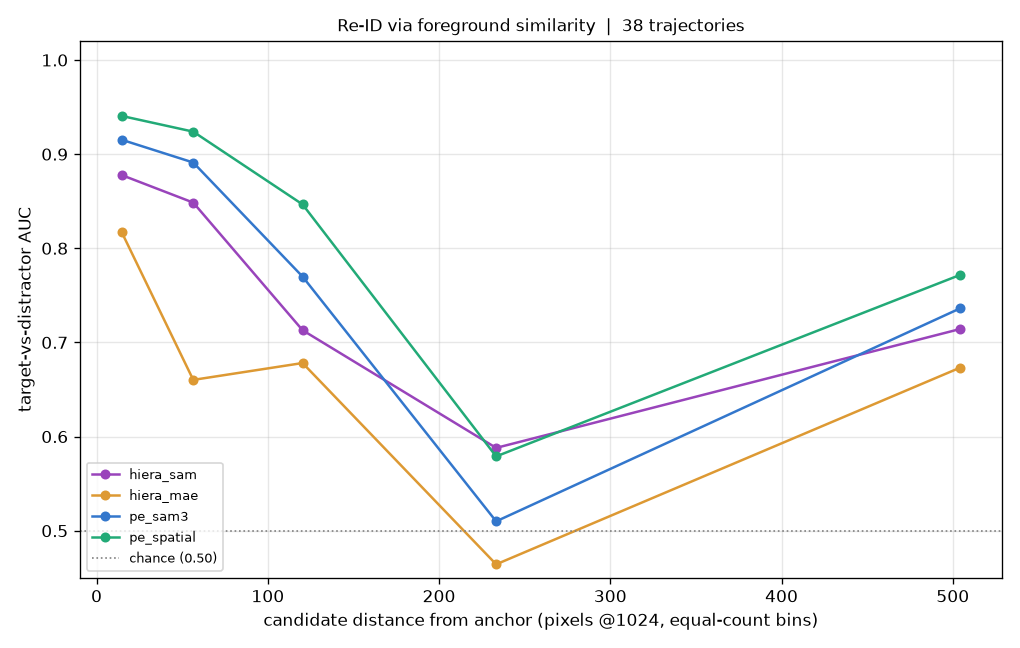
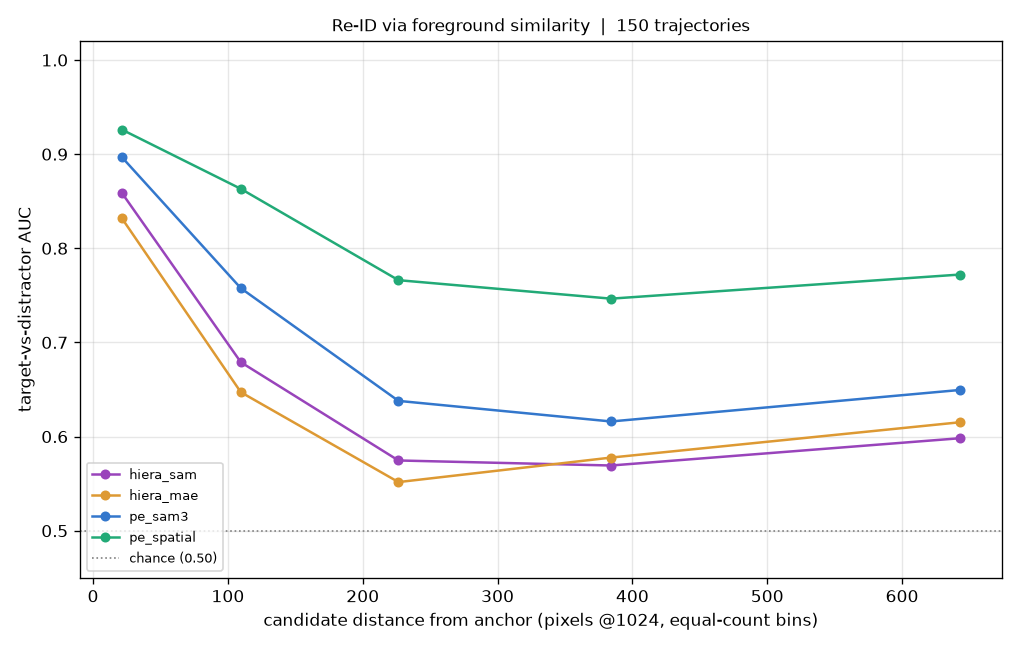
clean experiment

diff --git a/pe_reid_longrange.py b/pe_reid_longrange.py
@@ -105,8 +105,8 @@ def box_prompt_masks(sam, frame, boxes):
 
 @torch.inference_mode()
 def entity_tokens(sam, backbones, frame, boxes, floor, crop_size):
-    """Return each box's (foreground, background) tokens for every backbone, cropped around its own mask
-    but floored at the anchor scale. Returns a list aligned to boxes ({backbone: (fg, bg)}), or None if any mask is empty."""
+    """Return each box's foreground tokens for every backbone, cropped around its own mask but floored
+    at the anchor scale. Returns a list aligned to boxes ({backbone: fg_tokens}), or None if any mask is empty."""
 
     box_masks = box_prompt_masks(sam, frame, boxes)
     if any((box_mask > 0).sum() == 0 for box_mask in box_masks):
@@ -114,7 +114,7 @@ def entity_tokens(sam, backbones, frame, boxes, floor, crop_size):
 
     # Crop every box out of the (repeated) frame in one call, floored at the anchor scale.
     frame_per_box = np.repeat(frame[None], len(box_masks), axis=0)
-    box_crops, box_crop_masks = crop_around_masks(frame_per_box, np.stack(box_masks).astype(np.float32), crop_size, 0.5, floor)
+    box_crops, box_crop_masks = crop_around_masks(frame_per_box, np.stack(box_masks).astype(np.float32), crop_size, 0.2, floor)
 
     tokens_by_box = [{} for _ in boxes]
     for backbone_name, encode in backbones.items():
@@ -122,7 +122,7 @@ def entity_tokens(sam, backbones, frame, boxes, floor, crop_size):
         foreground_masks = _patch_masks(box_crop_masks, patch_tokens.device)
 
         for box_tokens, box_patch_tokens, mask in zip(tokens_by_box, patch_tokens, foreground_masks):
-            box_tokens[backbone_name] = (box_patch_tokens[mask].clone(), box_patch_tokens[~mask].clone())
+            box_tokens[backbone_name] = box_patch_tokens[mask].clone()          # foreground tokens only
         del patch_tokens                                # free this backbone before the next large model runs
         if DEVICE == "cuda":
             torch.cuda.empty_cache()
@@ -130,18 +130,19 @@ def entity_tokens(sam, backbones, frame, boxes, floor, crop_size):
 
 
 @torch.inference_mode()
-def chamfer_similarity(reference_fg, tokens):
-    """Bidirectional (symmetric) chamfer: average of tokens->anchor and anchor->tokens mean best cosine.
-    NaN if either side is empty."""
+def chamfer_scores(reference_fg, tokens):
+    """Return (unidirectional, bidirectional) chamfer between the anchor foreground and the candidate tokens.
+    uni = mean best cosine of each candidate token to any anchor patch; bi = average of that with the reverse
+    direction (anchor->candidate). (nan, nan) if either side is empty."""
 
     if reference_fg.shape[0] == 0 or tokens.shape[0] == 0:
-        return float("nan")
+        return float("nan"), float("nan")
     reference = F.normalize(reference_fg, dim=-1)
     tokens = F.normalize(tokens, dim=-1)
     similarity = tokens @ reference.T                        # (n_tokens, n_anchor_fg)
     tokens_to_anchor = similarity.max(dim=1).values.mean()   # each candidate token -> best anchor patch
     anchor_to_tokens = similarity.max(dim=0).values.mean()   # each anchor patch -> best candidate token
-    return float(0.5 * (tokens_to_anchor + anchor_to_tokens))
+    return float(tokens_to_anchor), float(0.5 * (tokens_to_anchor + anchor_to_tokens))
 
 
 def distance(a, b):
@@ -170,8 +171,8 @@ def clean_distractors(clean_boxes, n_distractors, min_norm_area, rng):
 
 
 def evaluate_trajectory(sam, backbones, detection_data, trajectory, config, rng):
-    """Yield (backbone, dists, fg_scores, fgbg_scores) per visible frame; index 0 is the target, rest distractors.
-    fg = candidate foreground vs anchor foreground; fgbg = that minus candidate background vs anchor foreground."""
+    """Yield (backbone, dists, bi_scores, uni_scores) per visible frame; index 0 is the target, rest distractors.
+    bi = bidirectional chamfer of candidate FG vs anchor FG; uni = the one-directional (candidate->anchor) chamfer."""
 
     video, person, anchor_frame = trajectory
     detection_data.initialize_target(video, person)
@@ -199,7 +200,7 @@ def evaluate_trajectory(sam, backbones, detection_data, trajectory, config, rng)
     anchor = entity_tokens(sam, backbones, frames[0], [boxes[0]], floor, config.crop_size)
     if anchor is None:
         return
-    query = anchor[0]
+    query = anchor[0]                                    # {backbone: anchor foreground tokens}
     clean_boxes = load_clean_boxes_by_frame(visible_json, person)
 
     # Distances are measured in pixels at the common 1024 working resolution (un-normalized, isotropic).
@@ -221,13 +222,12 @@ def evaluate_trajectory(sam, backbones, detection_data, trajectory, config, rng)
             continue
 
         for name in backbones:
-            anchor_fg = query[name][0]
-            fg_scores = [chamfer_similarity(anchor_fg, candidate[name][0]) for candidate in candidates]   # candidate FG vs anchor FG
-            bg_scores = [chamfer_similarity(anchor_fg, candidate[name][1]) for candidate in candidates]   # candidate BG vs anchor FG
-            if any(np.isnan(fg_scores)) or any(np.isnan(bg_scores)):
+            pairs = [chamfer_scores(query[name], candidate[name]) for candidate in candidates]   # (uni, bi) per candidate
+            uni_scores = [uni for uni, _ in pairs]
+            bi_scores = [bi for _, bi in pairs]
+            if any(np.isnan(bi_scores)):
                 continue
-            fgbg_scores = [fg - bg for fg, bg in zip(fg_scores, bg_scores)]
-            yield name, candidate_dists, fg_scores, fgbg_scores
+            yield name, candidate_dists, bi_scores, uni_scores
 
 
 def auc(samples):
@@ -309,20 +309,26 @@ def plot_auc(results, spec, edges, colors, min_bin_samples, n_traj, metric="fore
 
 
 def load_checkpoint(path):
-    """Load (results_fg, results_fgbg, done) from the checkpoint, or empties when there is none."""
+    """Load (results_bi, results_uni, per_traj, done) from the checkpoint, or empties when there is none.
+    results_bi/uni are the bidirectional/unidirectional chamfer samples; per_traj maps trajectory key ->
+    {backbone: that trajectory's own bidirectional AUC}."""
 
     if not Path(path).exists():
-        return defaultdict(list), defaultdict(list), set()
+        return defaultdict(list), defaultdict(list), {}, set()
     state = pickle.loads(Path(path).read_bytes())
-    return defaultdict(list, state["results_fg"]), defaultdict(list, state["results_fgbg"]), set(state["done"])
+    return (defaultdict(list, state["results_bi"]), defaultdict(list, state["results_uni"]),
+            state.get("per_traj", {}), set(state["done"]))
 
 
-def save_checkpoint(path, results_fg, results_fgbg, done):
-    """Atomically write the FG and FG-BG samples plus finished-trajectory keys so the next run resumes here."""
+def save_checkpoint(path, results_bi, results_uni, per_traj, done):
+    """Atomically write the bidirectional/unidirectional samples, per-trajectory AUC, and finished keys so
+    the run resumes here. Also dumps per_traj to a standalone npy for offline hardness analysis."""
 
     tmp = Path(path).with_suffix(".pkl.tmp")
-    tmp.write_bytes(pickle.dumps({"results_fg": dict(results_fg), "results_fgbg": dict(results_fgbg), "done": list(done)}))
+    tmp.write_bytes(pickle.dumps({"results_bi": dict(results_bi), "results_uni": dict(results_uni),
+                                  "per_traj": per_traj, "done": list(done)}))
     tmp.replace(path)
+    np.save("data/pe_reid_per_traj.npy", per_traj, allow_pickle=True)
 
 
 @hydra.main(config_path="conf", config_name="pe_reid", version_base=None)
@@ -338,7 +344,7 @@ def run_reid(config: DictConfig):
 
     colors = OmegaConf.to_container(config.colors)
     trajectories = test_trajectories(person_path, config.n_traj)
-    results_fg, results_fgbg, done = load_checkpoint(config.checkpoint)
+    results_bi, results_uni, per_traj, done = load_checkpoint(config.checkpoint)
     print(f"benchmarking {len(trajectories)} trajectories; resuming with {len(done)} done")
 
     rng = np.random.RandomState(0)          # reproducible random distractor choice
@@ -347,29 +353,33 @@ def run_reid(config: DictConfig):
         if key in done:
             continue
 
-        for name, dists, fg_scores, fgbg_scores in evaluate_trajectory(sam, backbones, detection_data, trajectory, config, rng):
-            for index, (candidate_distance, fg, fgbg) in enumerate(zip(dists, fg_scores, fgbg_scores)):
+        this_traj = defaultdict(list)                        # this trajectory's own bidirectional samples, for its per-traj AUC
+        for name, dists, bi_scores, uni_scores in evaluate_trajectory(sam, backbones, detection_data, trajectory, config, rng):
+            for index, (candidate_distance, bi, uni) in enumerate(zip(dists, bi_scores, uni_scores)):
                 label = 1 if index == 0 else 0               # index 0 is the target, the rest are distractors
-                results_fg[name].append((candidate_distance, label, fg))
-                results_fgbg[name].append((candidate_distance, label, fgbg))
+                this_traj[name].append((candidate_distance, label, bi))
+                results_uni[name].append((candidate_distance, label, uni))
+        for name, samples in this_traj.items():
+            results_bi[name].extend(samples)
+        per_traj[key] = {name: auc(samples) for name, samples in this_traj.items()}
         done.add(key)
 
-        edges = quantile_edges(results_fg, config.n_bins)
+        edges = quantile_edges(results_bi, config.n_bins)
         if edges is None:
             continue
         for spec in config.figures:
-            plot_auc(results_fg, spec, edges, colors, config.min_bin_samples, len(done))
-        plot_auc(results_fgbg, config.fgbg_figure, edges, colors, config.min_bin_samples, len(done), metric="FG - BG")
+            plot_auc(results_bi, spec, edges, colors, config.min_bin_samples, len(done))
+        plot_auc(results_uni, config.uni_figure, edges, colors, config.min_bin_samples, len(done), metric="unidirectional chamfer")
         if completed % config.checkpoint_every == 0:
-            save_checkpoint(config.checkpoint, results_fg, results_fgbg, done)
-            diagnose(results_fg, edges)
+            save_checkpoint(config.checkpoint, results_bi, results_uni, per_traj, done)
+            diagnose(results_bi, edges)
         if DEVICE == "cuda":
             torch.cuda.empty_cache()
 
-    save_checkpoint(config.checkpoint, results_fg, results_fgbg, done)
-    print("\noverall target-vs-distractor AUC (FG | FG-BG):")
-    for name in results_fg:
-        print(f"  {name:11s} FG={auc(results_fg[name]):.3f}   FG-BG={auc(results_fgbg[name]):.3f}   (n={len(results_fg[name])})")
+    save_checkpoint(config.checkpoint, results_bi, results_uni, per_traj, done)
+    print("\noverall target-vs-distractor AUC (bidirectional | unidirectional):")
+    for name in results_bi:
+        print(f"  {name:11s} bi={auc(results_bi[name]):.3f}   uni={auc(results_uni[name]):.3f}   (n={len(results_bi[name])})")
 
 
 if __name__ == "__main__":
